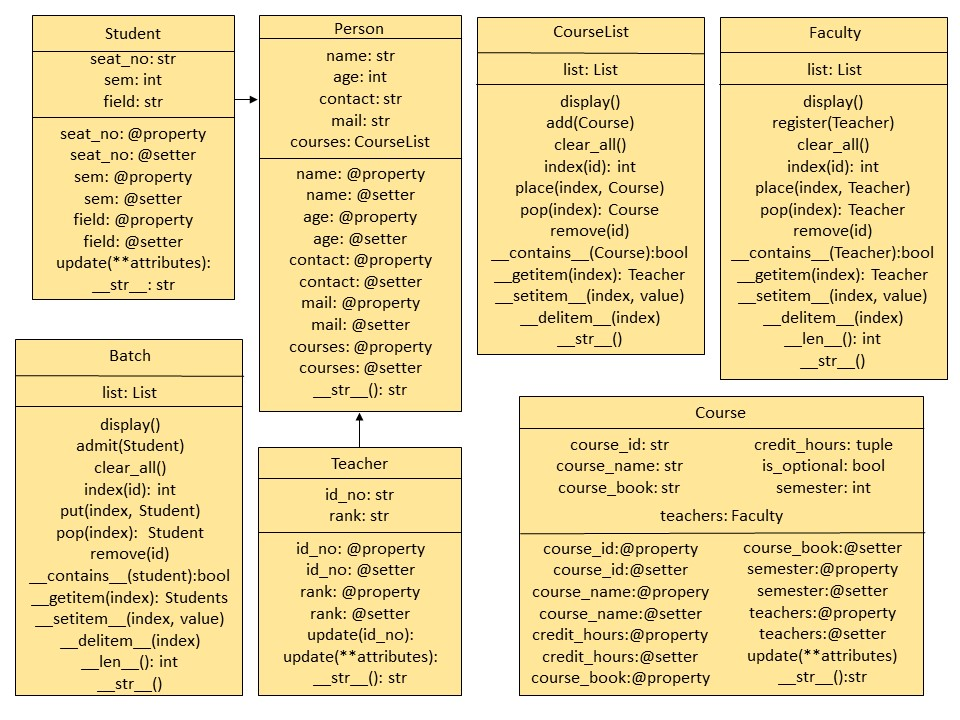
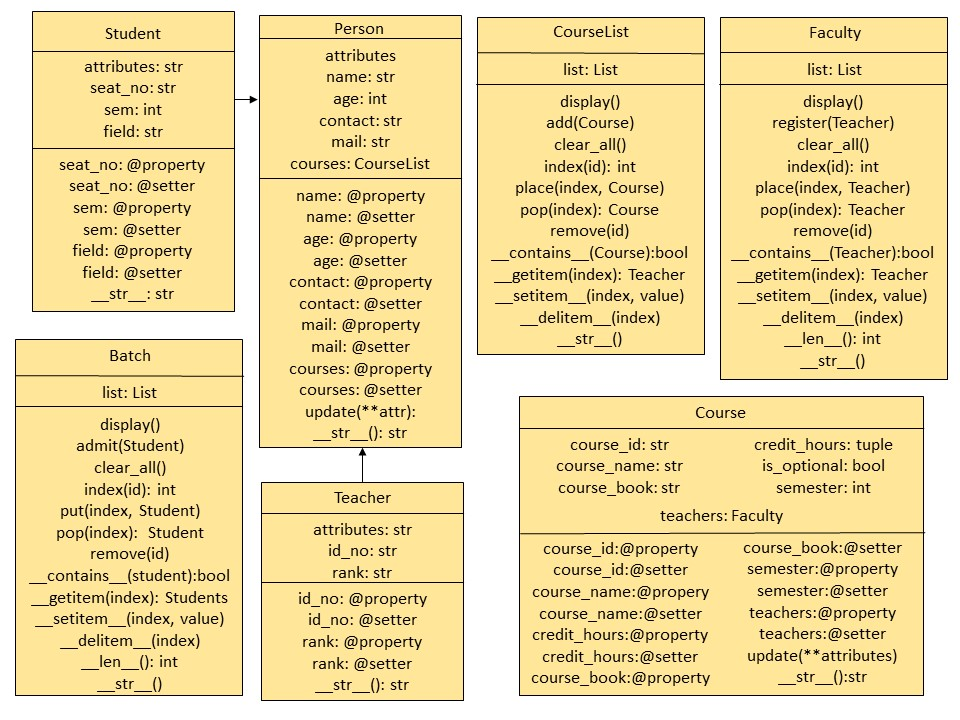
Added Course classes, made minor changes in Person.py and UML

Changed region(s): [[0.25, 0.0611, 0.5, 0.9778], [0.0312, 0.0611, 0.25, 0.4583], [0.0312, 0.0, 0.25, 0.0306]]

diff --git a/Mini-LMS/Course.py b/Mini-LMS/Course.py
@@ -1,6 +1,120 @@
+from PersonLists import Faculty
+
 class Course:
-    def __init__(self):
-        pass
+    
+    attributes = "course_id, course_name, course_book, credit_hours, semester, is_optional, teachers"
+    
+    def __init__(self, course_id, course_name, course_book, credit_hours, semester, is_optional, teachers):
+        self.course_id = course_id
+        self.course_name = course_name
+        self.course_book = course_book
+        self.credit_hours = credit_hours
+        self.semester = semester
+        self.is_optional = is_optional
+        self.teachers = teachers
+        
+    @property
+    def course_id(self):
+        return self.__course_id
+    
+    @course_id.setter
+    def course_id(self, value):
+        if not isinstance(value, str):
+            raise TypeError('Course ID must be a String Value')
+        value.strip()
+        if len(value) != 5:
+            raise ValueError('Course ID must be 5 Characters')
+        if not value.isalnum():
+            raise ValueError('Course ID must only contain Alphabet and Numbers')
+        
+        self.__course_id = value
+        
+    @property
+    def course_name(self):
+        return self.__course_name
+    
+    @course_name.setter
+    def course_name(self, value):
+        if not isinstance(value, str):
+            raise TypeError('Course Name must be a String Value')
+        value.strip()
+        if len(value) < 3 or len(value) > 50:
+            raise ValueError('Course Name is Too Short/Long')
+        
+        self.__course_name = value
+        
+    @property
+    def course_book(self):
+        return self.__course_book
+    
+    @course_book.setter
+    def course_book(self, value):
+        if not isinstance(value, str):
+            raise TypeError('Course Book must be a String Value')
+        value.strip()
+        if len(value) < 3 or len(value) > 50:
+            raise ValueError('Course Book is Too Short/Long')
+        
+        self.__course_book = value
+    
+    @property
+    def credit_hours(self):
+        return self.__credit_hours
+    
+    @credit_hours.setter
+    def credit_hours(self, value):
+        if not isinstance(value, tuple):
+            raise TypeError('Credit Hours must be a Tuple')
+        if len(value) != 2:
+            raise ValueError('Invalid Format, Valid Format is (Theory, Lab)')
+        if not all(isinstance(x, int) for x in value):
+            raise ValueError('Credit Hour must be in Integer Values')
+        
+        self.__credit_hours = value
+        
+    @property
+    def semester(self):
+        return self.__semester
+    
+    @semester.setter
+    def semester(self, value):
+        if not isinstance(value, int):
+            raise TypeError('Semester must be an Integer Value')
+        if value < 1 or value > 8:
+            raise ValueError('Semester must be between 1 - 8')
+        
+        self.__semester = value
+        
+    @property
+    def is_optional(self):
+        return self.__is_optional
+    
+    @is_optional.setter
+    def is_optional(self, value):
+        if not isinstance(value, bool):
+            raise TypeError('Must be an Boolean Value')
+        
+    @property
+    def teachers(self):
+        return self.__teachers
+    
+    @teachers.setter
+    def teachers(self, value):
+        if not isinstance(value, Faculty):
+            raise TypeError('Teachers must be a Faculty Object Value')
+        
+        return self.__teachers
+    
+    def update(self, **attr):
+        for key, value in attr.items():
+            if hasattr(self, key):
+                setattr(self, key, value)
+            else:
+                raise AttributeError(f"""Invalid Argument '{key}'
+Valid Arguments: {self.__class__.attributes}""")
+        
+    
+        
     
 class CourseList:
     def __init__(self):

diff --git a/Mini-LMS/Person.py b/Mini-LMS/Person.py
@@ -1,7 +1,14 @@
+from abc import ABC
 from Course import CourseList
 
-class Person:
+class Person(ABC):
+    
+    attributes = "name, age, contact, mail, courses"
+    
     def __init__(self, name, age, contact, mail, courses):
+        if self.__class__ is Person:
+            raise TypeError("Person Class cannot be Instantiated")
+        
         self.name = name
         self.age = age
         self.contact = contact
@@ -90,12 +97,23 @@ class Person:
         
         self.__courses = course_list
         
+    def update(self, **attr):
+        for key, value in attr.items():
+            if hasattr(self, key):
+                setattr(self, key, value)
+            else:
+                raise AttributeError(f"""Invalid Argument '{key}'
+Valid Arguments: {self.__class__.attributes}""")
+        
     def __str__(self):
         return f"""Name: {self.name}, Age: {self.age}, Contact: {self.contact}, E-Mail: {self.mail}
 Courses: {self.courses}"""
     
 
 class Student(Person):
+    
+    attributes = "name, age, contact, mail, seat_no, sem, field, courses"
+    
     def __init__(self, name, age, contact, mail, seat_no, sem, field, courses):
         super().__init__(name, age, contact, mail, courses)
         
@@ -146,14 +164,6 @@ class Student(Person):
             raise ValueError("Invalid Field, Valid options are: CS, SE, AI")
         
         self.__field = value
-        
-    def update(self, **attributes):
-        for key, value in attributes.items():
-            if hasattr(self, key):
-                setattr(self, key, value)
-            else:
-                raise AttributeError(f"""Invalid Argument: {key}
-Valid Arguments: name, age, contact, mail, seat_no, sem, field, courses""")
             
     def __str__(self):
         return f"""Name: {self.name}    Age: {self.age}
@@ -163,6 +173,9 @@ Semester: {self.sem}
 Courses: {self.courses}"""
 
 class Teacher(Person):
+    
+    attributes = "name, age, contact, mail, id_no, rank, courses"
+    
     def __init__(self, name, age, contact, mail, id_no, rank, courses):
         super().__init__(name, age, contact, mail, courses)
         self.id_no = id_no
@@ -197,14 +210,6 @@ class Teacher(Person):
 Associate Professor, Assistant Professor, Lecturer, Teaching Associate, Visiting Faculty""")
             
         self.__rank = value
-        
-    def update(self, **attributes):
-        for key, value in attributes.items():
-            if hasattr(self, key):
-                setattr(self, key, value)
-            else:
-                raise AttributeError(f"""Invalid Argument: {key}
-Valid Arguments: name, age, contact, mail, id_no, rank, courses""")
             
     def __str__(self):
         return f"""Name: {self.name}    Age: {self.age}
